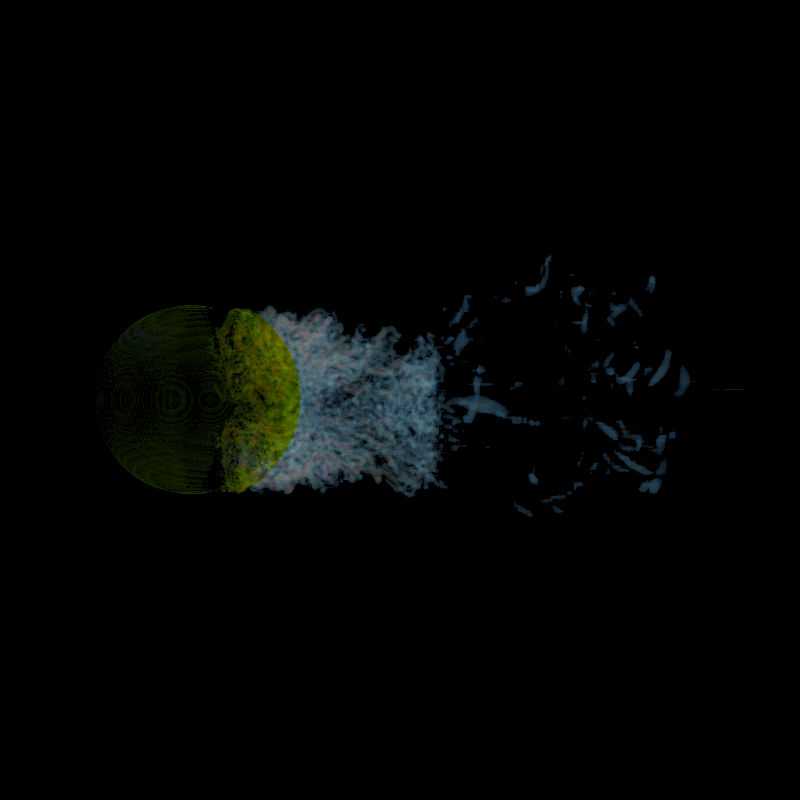
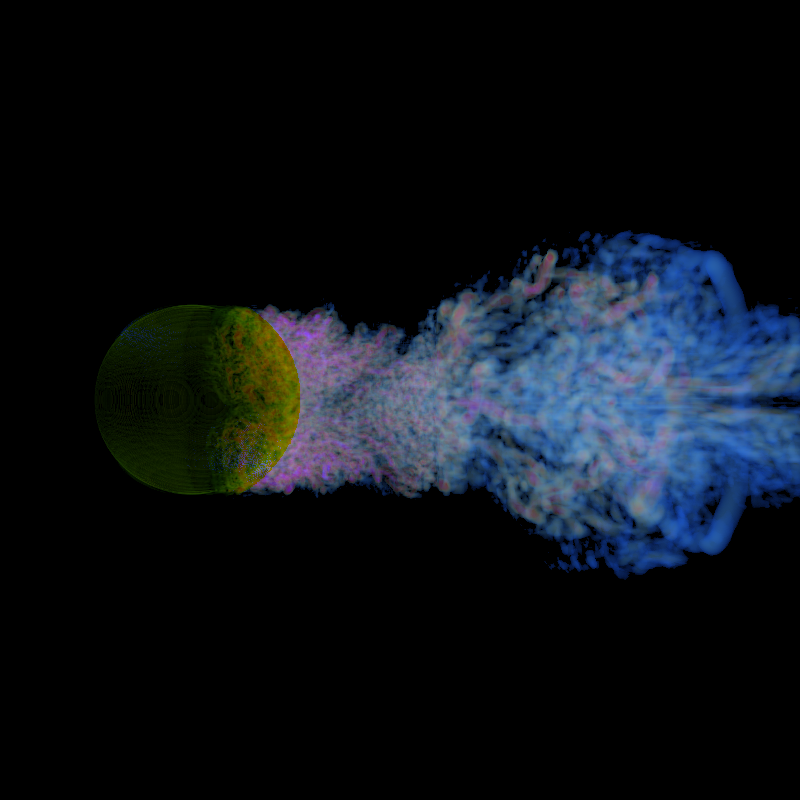
VDBloader reconstruction

Changed region(s): [[0.25, 0.2812, 1.0, 0.7188], [0.1562, 0.4062, 0.1875, 0.4375]]

diff --git a/src/VDBLoader.cpp b/src/VDBLoader.cpp
@@ -1,7 +1,51 @@
-#include "VDBLoader.h"
 
-template<typename GridType>
-std::string VDBLoader<GridType>::getGridType(openvdb::GridBase::Ptr grid) {
+#include "VDBLoader.h"
+float VDBLoader::q_criterion(const Vec3sGrid& grid,const Coord& coord,const iBBox& ibbox){
+    auto dx = grid.metaValue<double>("dx");
+    dx=0.008;
+    auto max_coord=ibbox.max();
+    auto acc_grid=grid.getAccessor();
+    Coord dx_coord{1, 0, 0};Coord dy_coord{0, 1, 0};Coord dz_coord{0, 0, 1};
+
+    Vec3f gx, gy, gz;
+    // grad_x
+    if (coord[0] == 0) {
+        gx = (acc_grid.getValue(coord + dx_coord) -
+              acc_grid.getValue(coord)) / dx;
+    } else if (coord[0] == max_coord[0]) {
+        gx = (acc_grid.getValue(coord) -
+              acc_grid.getValue(coord - dx_coord)) / dx;
+    } else {
+        gx = (acc_grid.getValue(coord + dx_coord) -
+              acc_grid.getValue(coord - dx_coord)) / (2 * dx);
+    }
+    // grad_y
+    if (coord[1] == 0) {
+        gy = (acc_grid.getValue(coord + dy_coord) -
+              acc_grid.getValue(coord)) / dx;
+    } else if (coord[1] == max_coord[1]) {
+        gy = (acc_grid.getValue(coord) -
+              acc_grid.getValue(coord - dy_coord)) / dx;
+    } else {
+        gy = (acc_grid.getValue(coord + dy_coord) -
+              acc_grid.getValue(coord - dy_coord)) / (2 * dx);
+    }
+    // grad_z
+    if (coord[2] == 0) {
+        gz = (acc_grid.getValue(coord + dz_coord) -
+              acc_grid.getValue(coord)) / dx;
+    } else if (coord[2] == max_coord[2]) {
+        gz = (acc_grid.getValue(coord) -
+              acc_grid.getValue(coord - dz_coord)) / dx;
+    } else {
+        gz = (acc_grid.getValue(coord + dz_coord) -
+              acc_grid.getValue(coord - dz_coord)) / (2 * dx);
+    }
+    return -0.5f * (gx.x() * gx.x() + gy.y() * gy.y() + gz.z() * gz.z())
+           - gx.y() * gy.x() - gx.z() * gz.x() - gy.z() * gz.y();
+}
+//template<typename GridType>
+std::string VDBLoader::getGridType(const openvdb::GridBase::Ptr& grid) {
     if (grid->isType<openvdb::BoolGrid>())
         return "BoolGrid";
     else if (grid->isType<openvdb::FloatGrid>())
@@ -21,13 +65,14 @@ std::string VDBLoader<GridType>::getGridType(openvdb::GridBase::Ptr grid) {
     return "Type not found";
 }
 
-template<typename GridType>
-std::vector<std::string> &VDBLoader<GridType>::getGridNames() {
+//template<typename GridType>
+std::vector<std::string> &VDBLoader::getGridNames() {
     return gridNames;
 }
 
-template<typename GridType>
-VDBLoader<GridType>::VDBLoader(std::string filename) : filename(filename) {
+
+//template<typename GridType>
+VDBLoader::VDBLoader(const std::string& filename) : filename(filename) {
     openvdb::initialize();
     file = new openvdb::io::File(filename);
     file->getSize();
@@ -48,55 +93,15 @@ VDBLoader<GridType>::VDBLoader(std::string filename) : filename(filename) {
         auto grid = openvdb::gridPtrCast<Vec3sGrid>(baseGrid);
         openvdb::tools::changeBackground(grid->tree(), (Vec3f) 1e30);
         FloatGrid::Ptr floatgrid = FloatGrid::create(1e30);
+
         auto accessor = floatgrid->getAccessor();
-        auto dx = grid->metaValue<double>("dx");
-//        auto dx = 0.008;
-        auto acc_grid = grid->getAccessor();
-        auto max_coord = grid->evalActiveVoxelBoundingBox().max();
+
+        auto grid_ibbox = grid->evalActiveVoxelBoundingBox();
         for (auto ite = grid->beginValueOn(); ite; ++ite) {
             auto coord = ite.getCoord();
-            //auto value = ite.getValue().length();
-            Vec3f gx, gy, gz;
-            // grad_x
-            if (coord[0] == 0) {
-                gx = (acc_grid.getValue(Coord(coord.x() + 1, coord.y(), coord.z())) -
-                      acc_grid.getValue(Coord(coord.x(), coord.y(), coord.z()))) / dx;
-            } else if (coord[0] == max_coord[0]) {
-                gx = (acc_grid.getValue(Coord(coord.x(), coord.y(), coord.z())) -
-                      acc_grid.getValue(Coord(coord.x() - 1, coord.y(), coord.z()))) / dx;
-            } else {
-                gx = (acc_grid.getValue(Coord(coord.x() + 1, coord.y(), coord.z())) -
-                      acc_grid.getValue(Coord(coord.x() - 1, coord.y(), coord.z()))) / (2 * dx);
-            }
-            // grad_y
-            if (coord[1] == 0) {
-                gy = (acc_grid.getValue(Coord(coord.x(), coord.y() + 1, coord.z())) -
-                      acc_grid.getValue(Coord(coord.x(), coord.y(), coord.z()))) / dx;
-            } else if (coord[1] == max_coord[1]) {
-                gy = (acc_grid.getValue(Coord(coord.x(), coord.y(), coord.z())) -
-                      acc_grid.getValue(Coord(coord.x(), coord.y() - 1, coord.z()))) / dx;
-            } else {
-                gy = (acc_grid.getValue(Coord(coord.x(), coord.y() + 1, coord.z())) -
-                      acc_grid.getValue(Coord(coord.x(), coord.y() - 1, coord.z()))) / (2 * dx);
-            }
-            // grad_z
-            if (coord[2] == 0) {
-                gz = (acc_grid.getValue(Coord(coord.x(), coord.y(), coord.z() + 1)) -
-                      acc_grid.getValue(Coord(coord.x(), coord.y(), coord.z()))) / dx;
-            } else if (coord[2] == max_coord[2]) {
-                gz = (acc_grid.getValue(Coord(coord.x(), coord.y(), coord.z())) -
-                      acc_grid.getValue(Coord(coord.x(), coord.y(), coord.z() - 1))) / dx;
-            } else {
-                gz = (acc_grid.getValue(Coord(coord.x(), coord.y(), coord.z() + 1)) -
-                      acc_grid.getValue(Coord(coord.x(), coord.y(), coord.z() - 1))) / (2 * dx);
-            }
-            float q = -0.5f * (gx.x() * gx.x() + gy.y() * gy.y() + gz.z() * gz.z())
-                    - gx.y() * gy.x() - gx.z() * gz.x() - gy.z() * gz.y();
-            accessor.setValue(coord, q);
+            accessor.setValue(coord, q_criterion(*grid,coord,grid_ibbox));
             accessor.setActiveState(coord, ite.isValueOn());
         }
-//        openvdb::tools::changeBackground(floatgrid->tree(), (float) 1e30);
-
 //        for(auto ite=floatgrid->beginValueAll();ite;++ite) {
 //            if (!ite.isValueOn()) cout << ite.getValue() << endl;
 //        }
@@ -106,7 +111,7 @@ VDBLoader<GridType>::VDBLoader(std::string filename) : filename(filename) {
             floatgrid->insertMeta(name, *value);
         }
         floatgrid->setTransform(grid->transformPtr());
-        grids.addGrid(floatgrid);
+        grids.addGrid(floatgrid,grid_ibbox);
 //        for(auto ite=floatgrid->beginValueAll();ite;++ite){
 //            if (!ite.isValueOn() && ite.getValue() > 1) cout << floatgrid->indexToWorld(ite.getCoord()) << "\t" << ite.getValue() << endl;
 //        }
@@ -114,8 +119,8 @@ VDBLoader<GridType>::VDBLoader(std::string filename) : filename(filename) {
 }
 
 
-template<typename GridType>
-VDBLoader<GridType>::~VDBLoader() {
+//template<typename GridType>
+VDBLoader::~VDBLoader() {
     if (file) {
         file->close();
         delete[] file;

diff --git a/include/VDBLoader.h b/include/VDBLoader.h
@@ -1,5 +1,5 @@
-#ifndef __VDB_VOLUME_LOADER_H__
-#define __VDB_VOLUME_LOADER_H__
+#ifndef VDB_VOLUME_LOADER_H_
+#define VDB_VOLUME_LOADER_H_
 
 #include <memory>
 #include "common.h"
@@ -7,12 +7,12 @@
 #include <algorithm>
 
 
-template<typename GridType>
+//template<typename GridType>
 class VDBLoader {
 public:
-    using TreeType = typename GridType::TreeType;
+//    using TreeType = typename GridType::TreeType;
 
-    explicit VDBLoader(std::string filename);
+    explicit VDBLoader(const std::string& filename);
 
     ~VDBLoader();
 
@@ -28,10 +28,11 @@ public:
     std::vector<std::string> gridNames;
     std::string filename;
 
-    std::string getGridType(openvdb::GridBase::Ptr grid);
+    static std::string getGridType(const openvdb::GridBase::Ptr& grid);
+    static float q_criterion(const Vec3sGrid& grid,const Coord& coord,const iBBox& ibbox);
 //    void SortBydx();
-
 private:
 };
 
-#endif /* __VDB_VOLUME_LOADER_H__ */
+
+#endif /* VDB_VOLUME_LOADER_H_ */

diff --git a/src/common.cpp b/src/common.cpp
@@ -23,13 +23,17 @@ std::string GetFilePath(const std::string& target, int depth/* = 5*/) {
 }
 
 void Grids_data::addGrid(const FloatGrid::Ptr& grid) {
+    addGrid(grid,grid->evalActiveVoxelBoundingBox());
+}
+
+void Grids_data::addGrid(const FloatGrid::Ptr& grid,const iBBox &ibbox) {
     grids.push_back(grid);
     auto dx_temp=grid->metaValue<double>("dx");
-//    auto O=grid->metaValue<openvdb::Vec3d>("origin");
+
     dx.push_back(dx_temp);
     if(dx_temp<min_dx) min_dx=dx_temp;
     if(dx_temp>max_dx) max_dx=dx_temp;
-    auto wbbox= ibbTowbb(grid,grid->evalActiveVoxelBoundingBox());
+    auto wbbox= ibbTowbb(grid,ibbox);
     whole_wbbox.expand(wbbox);
     wbboxes.emplace_back(wbbox);
 }

diff --git a/src/main.cpp b/src/main.cpp
@@ -1,6 +1,6 @@
 #include "common.h"
 #include "VDBLoader.h"
-#include "VDBLoader.cpp"
+
 #include "config_io.h"
 #include "integrator.h"
 #include "utils.h"
@@ -138,7 +138,7 @@ int main(int argc, char *argv[]) {
     auto scene = std::make_shared<Scene>();
     initSceneFromConfig(config, scene);
 //load vdb
-    VDBLoader<Vec3sGrid> loader(GetFilePath(config.file_path));
+    VDBLoader loader(GetFilePath(config.file_path));
 
 //    Kdtree kdtree(loader.grids);
 //    WindowGuard windowGuard(window, WIDTH, HEIGHT, "CG");

diff --git a/src/integrator.cpp b/src/integrator.cpp
@@ -51,7 +51,7 @@ void Integrator::render() const {
 float Integrator::opacity_transfer(float value) const {
     //first for isovalue of iso-surface, second for value to be the opacity
     //using Gauss pdf
-    if (value > 0.2) {
+    if (value > 0.01) {
         return 0.6;
 //        float xu = value - 1.0;
 //        return 0.9 * exp(-0.5*xu*xu/(1.0*1.0));

diff --git a/include/common.h b/include/common.h
@@ -73,6 +73,7 @@ using gMat4 = glm::mat<4, 4, Float, glm::defaultp>;
 std::string GetFilePath(const std::string& target, int depth = 5);
 
 struct Grids_data{
+    void addGrid(const FloatGrid::Ptr& grid,const iBBox& ibbox);
     void addGrid(const FloatGrid::Ptr& grid);
     std::vector<FloatGrid::Ptr> grids;
     std::vector<double> dx;
